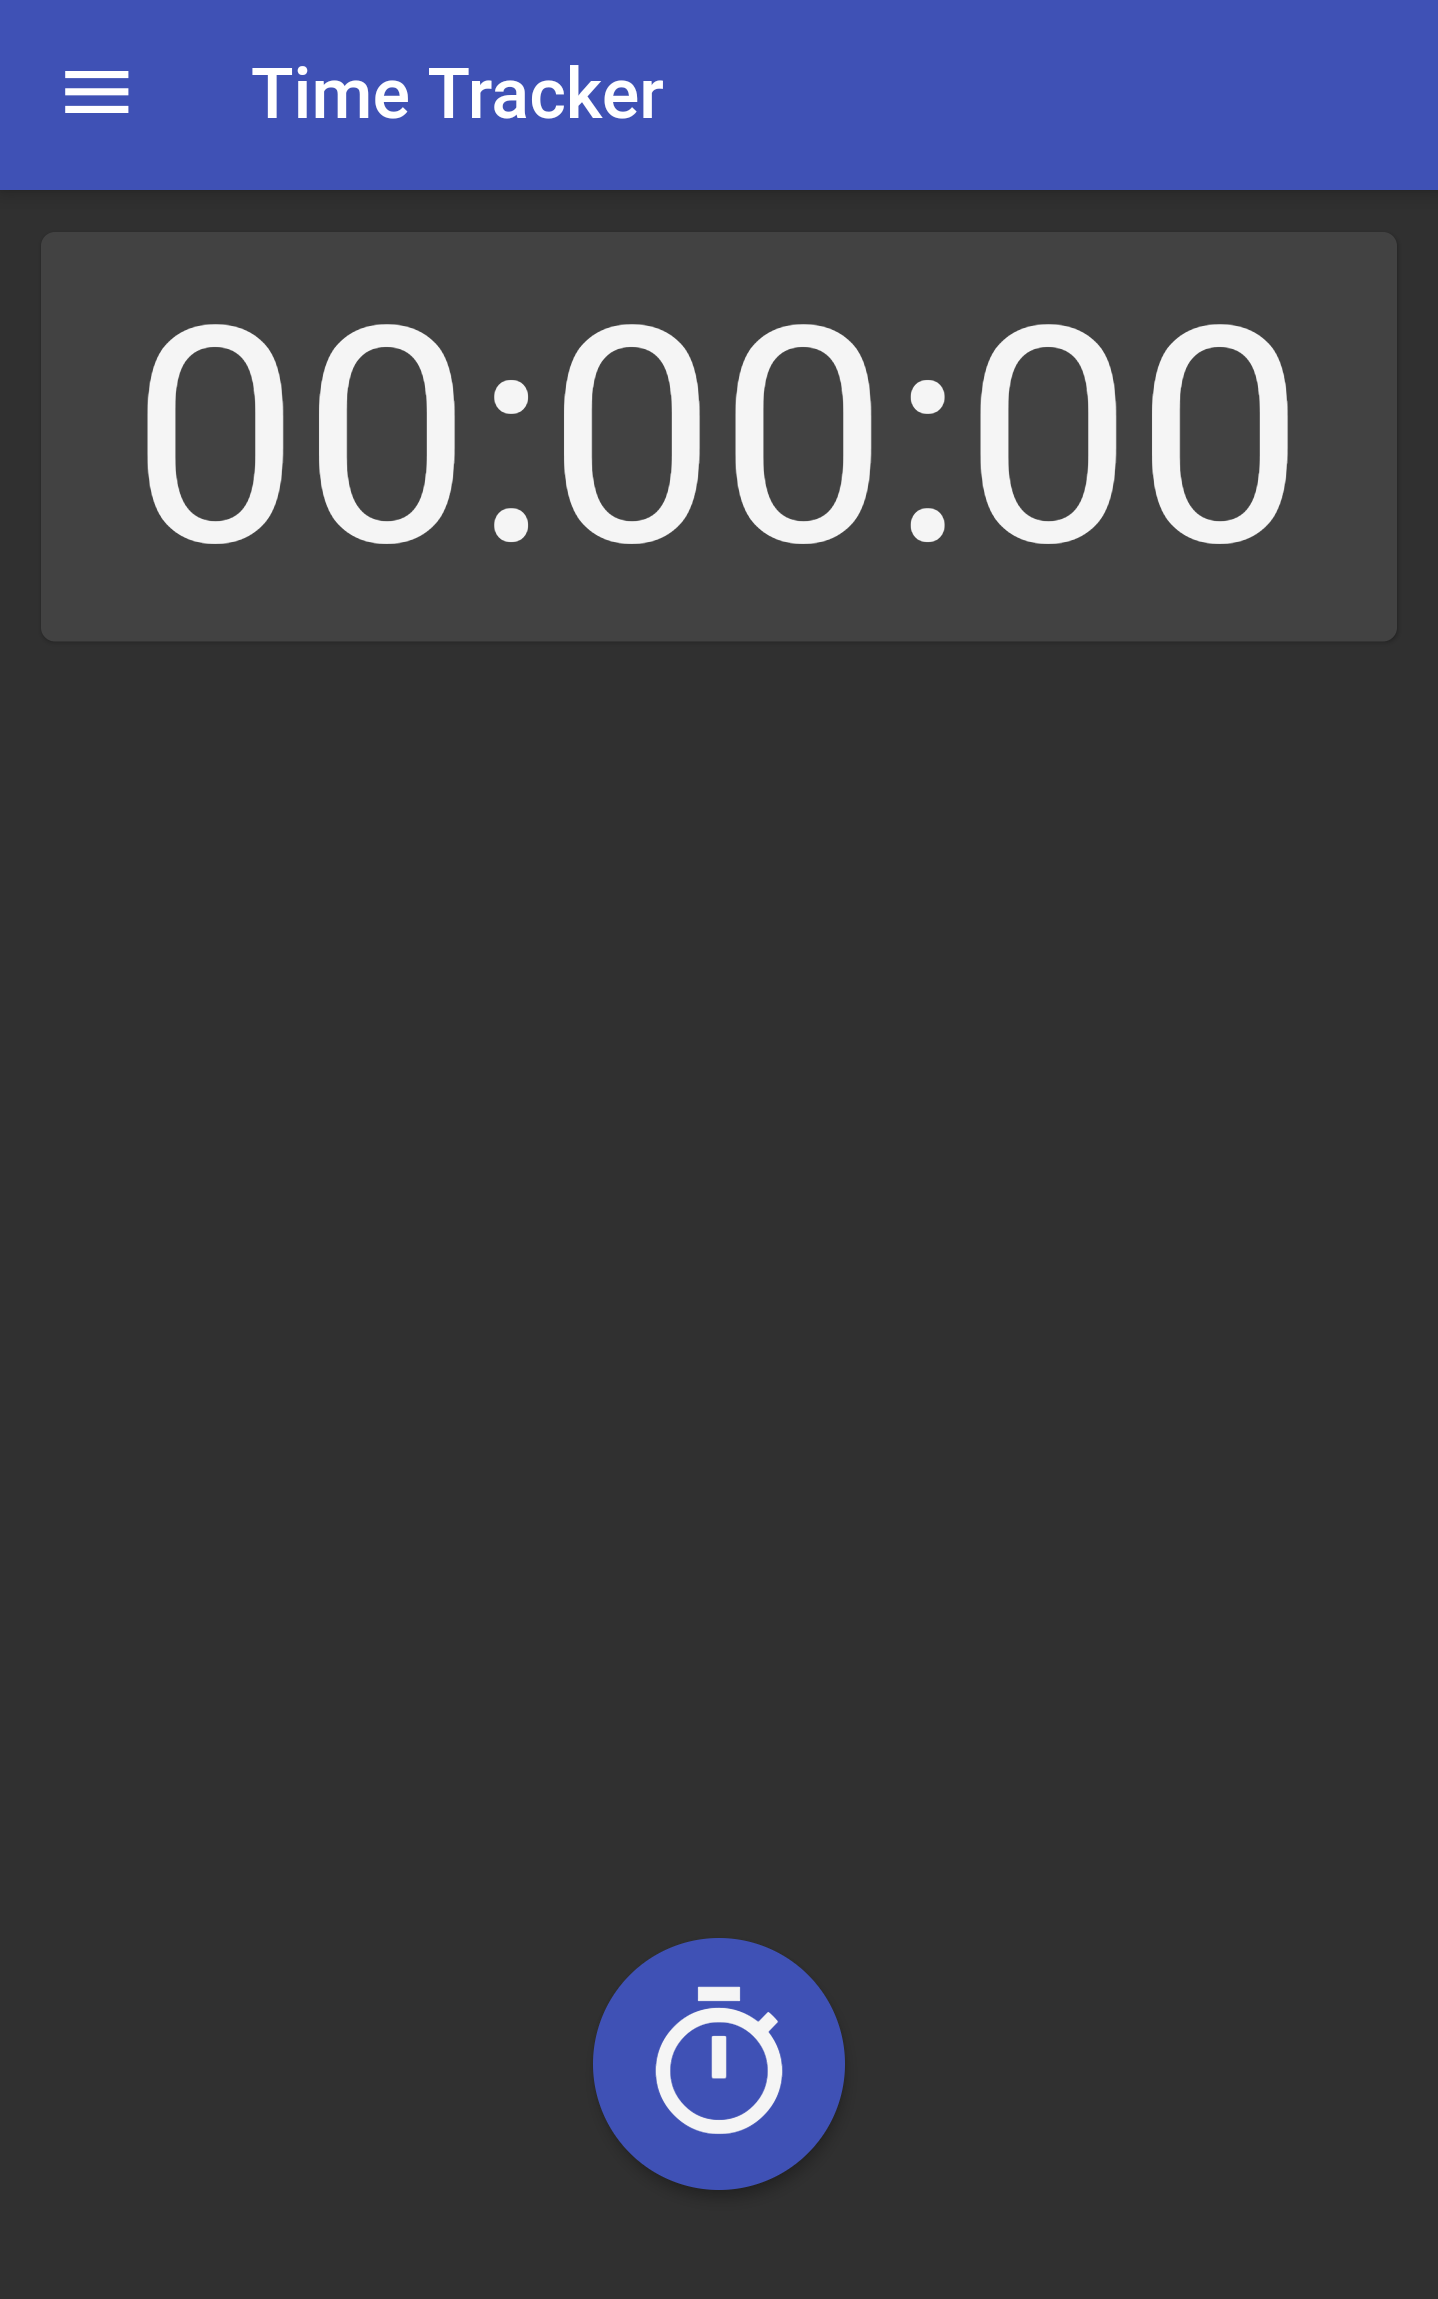
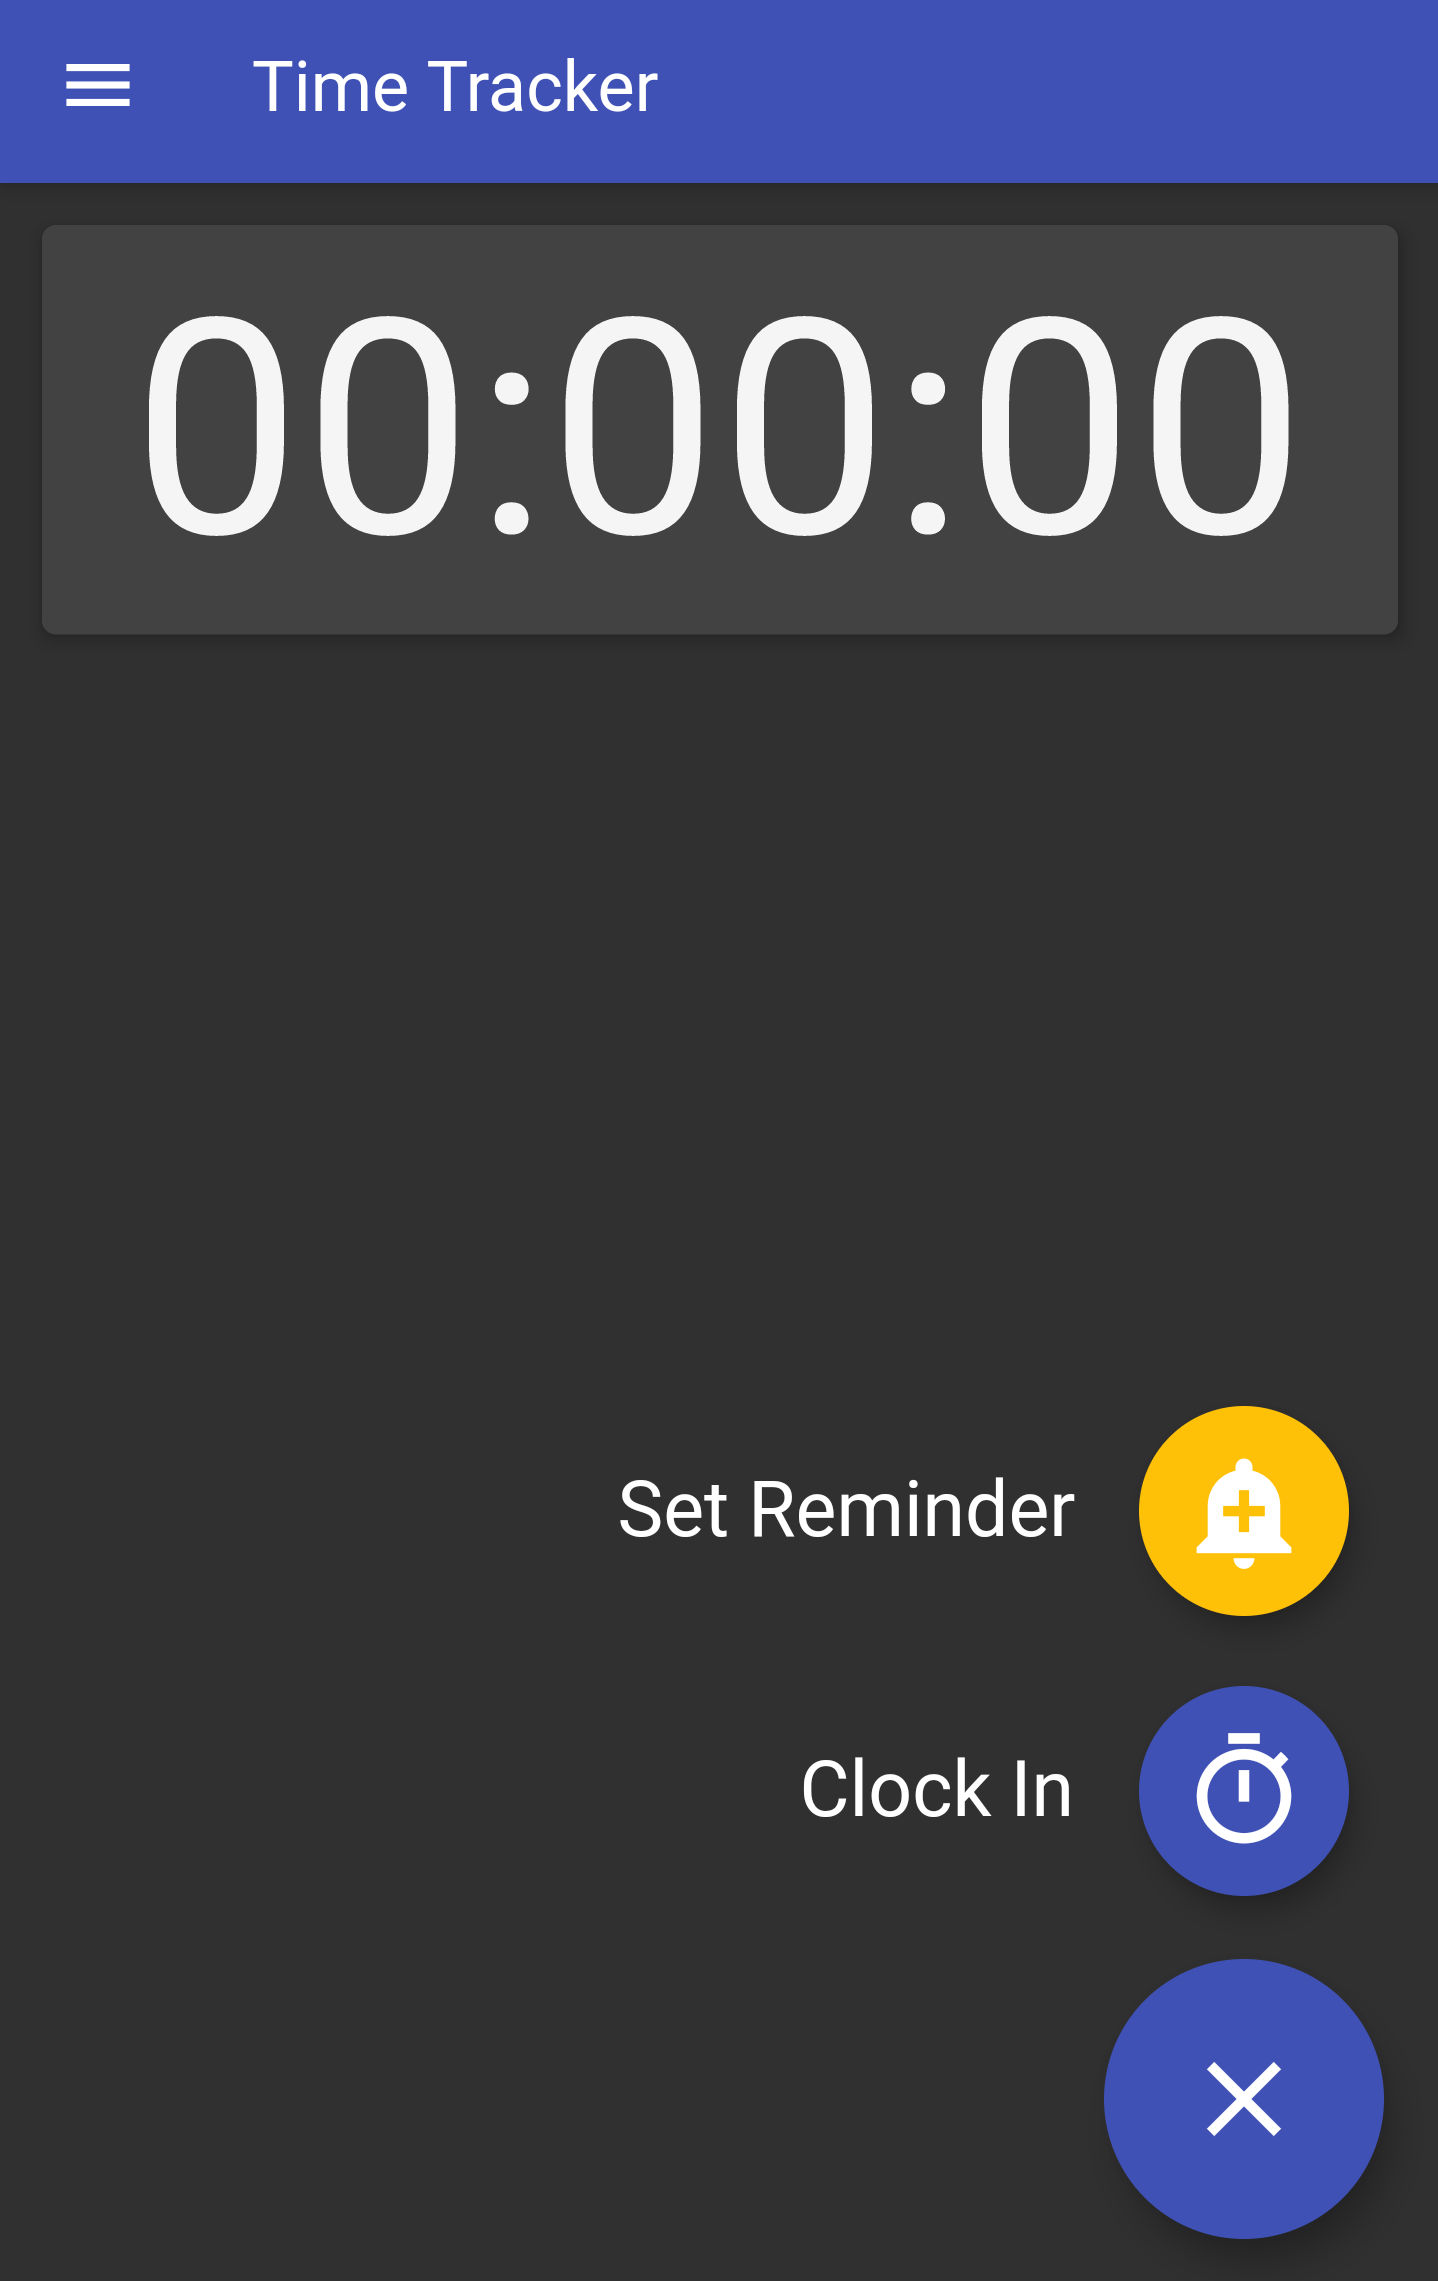
update onboarding for reminders

diff --git a/lib/pages/onboarding_page.dart b/lib/pages/onboarding_page.dart
@@ -20,12 +20,28 @@ class OnboardingPage extends StatelessWidget {
       pages: <PageViewModel>[
         PageViewModel(
           title: 'Tracking Time',
-          bodyWidget: Row(
-            mainAxisAlignment: MainAxisAlignment.center,
+          bodyWidget: Column(
             children: [
-              Text('Tap on the '),
-              Icon(Icons.timer),
-              Text(' button to clock in and out'),
+              Row(
+                mainAxisAlignment: MainAxisAlignment.center,
+                children: [
+                  Text('Tap on the '),
+                  Icon(Icons.timer),
+                  Text(' button to clock in and out'),
+                ],
+              ),
+              Row(
+                mainAxisAlignment: MainAxisAlignment.center,
+                children: [
+                  Text('Tap on the '),
+                  Icon(Icons.add_alert),
+                  Text(' button to schedule a reminder'),
+                ],
+              ),
+              Row(
+                mainAxisAlignment: MainAxisAlignment.center,
+                children: [],
+              ),
             ],
           ),
           image: Center(
